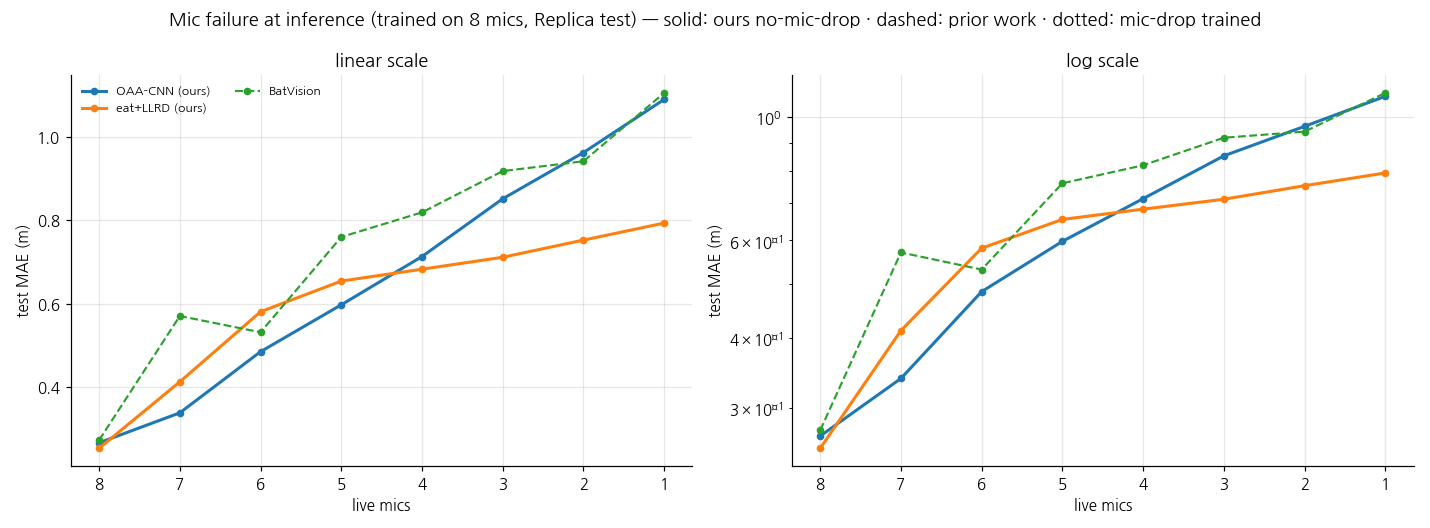
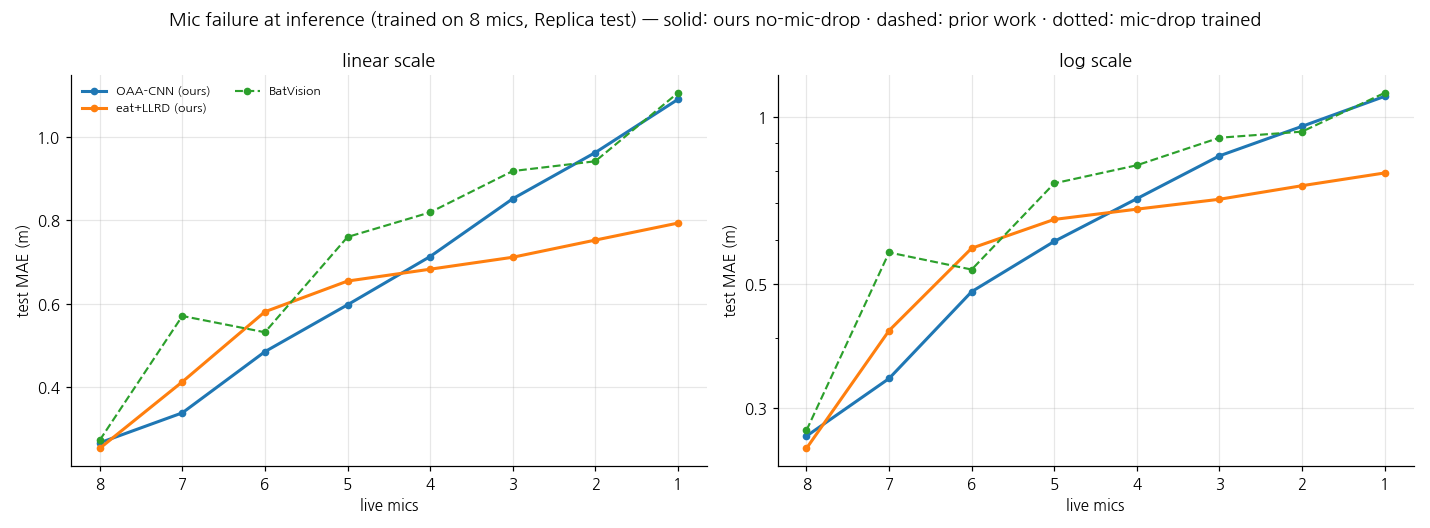
analysis/micdrop_study: BatVision curve + log-axis tick fix; wire EchoDiffusion runner

diff --git a/analysis/micdrop_study/report.py b/analysis/micdrop_study/report.py
@@ -75,7 +75,14 @@ def main():
         ax.set_xlabel("live mics"); ax.set_ylabel("test MAE (m)")
         ax.grid(alpha=.3); ax.spines[["top", "right"]].set_visible(False)
         if logy:
-            ax.set_yscale("log"); ax.set_title("log scale")
+            # plain decimal ticks: the default LogFormatter renders 10^-1 with U+2212, which the
+            # bundled font lacks, and the substituted glyph silently mangles the exponent.
+            from matplotlib.ticker import FuncFormatter, LogLocator, NullFormatter
+            ax.set_yscale("log")
+            ax.yaxis.set_major_locator(LogLocator(base=10, subs=(1.0, 2.0, 3.0, 5.0), numticks=12))
+            ax.yaxis.set_major_formatter(FuncFormatter(lambda v, _: f"{v:g}"))
+            ax.yaxis.set_minor_formatter(NullFormatter())
+            ax.set_title("log scale")
         else:
             ax.set_title("linear scale")
     axes[0].legend(fontsize=8, frameon=False, ncol=2)
